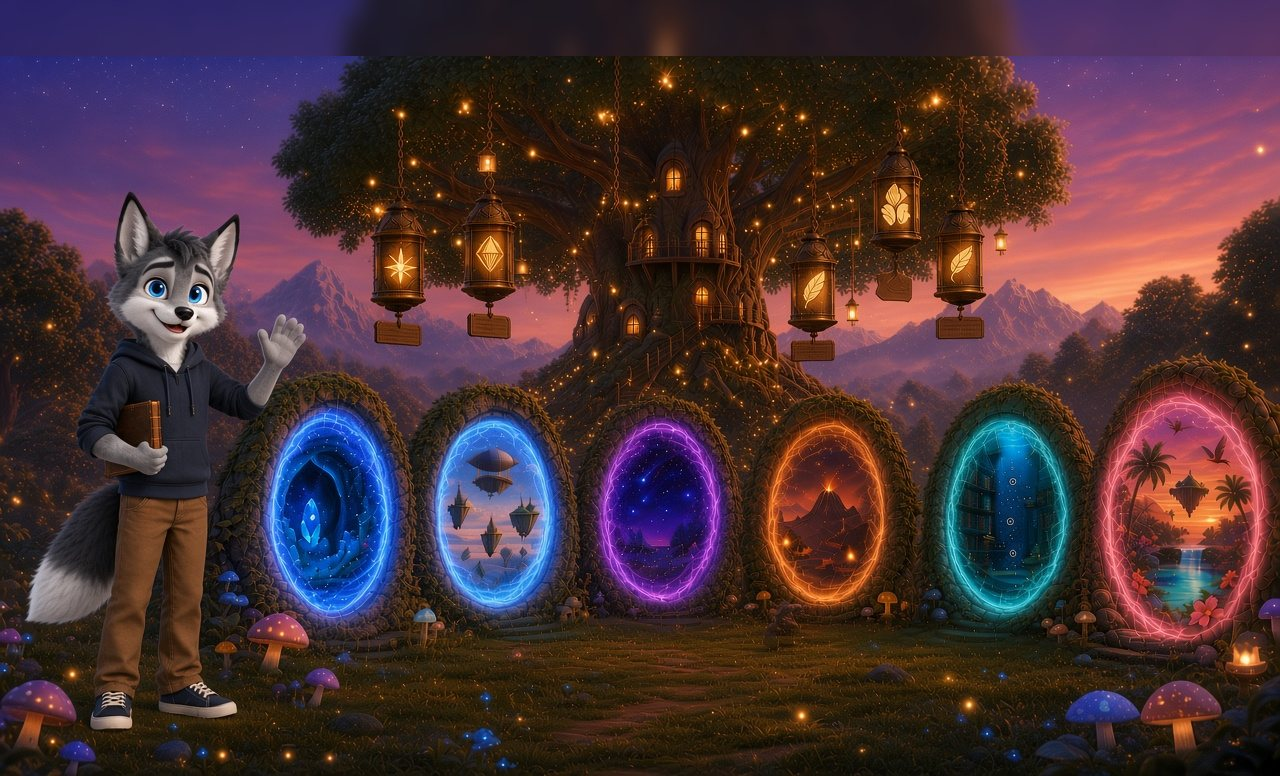
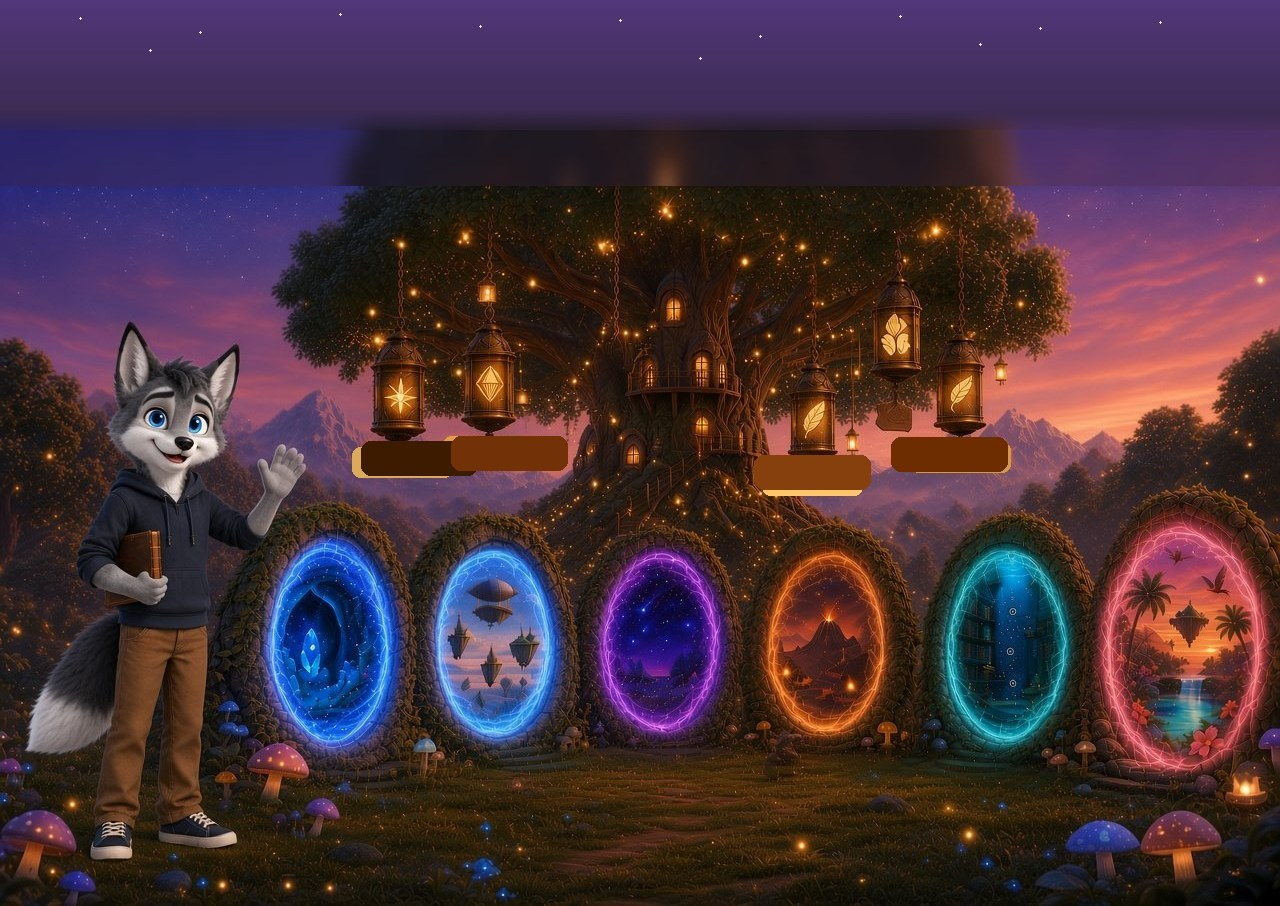
Plan A: clear sky band, one-line title, canopy crop, tip and lantern labels
Brighten and extend sky so canopy sits under open sky; keep the gold title
on one line in the upper-left; move Astra's tip beside his head; place
opaque frosted labels over the painted lantern signs; cover-fit biased to
show canopy with a little sky above.

diff --git a/student-dashboard/src/routes/plan-a.tsx b/student-dashboard/src/routes/plan-a.tsx
@@ -33,6 +33,9 @@ type Lantern = {
   y: number;
   w: number;
   h: number;
+  /** Center of painted wooden sign under the lantern (for frosted label cover). */
+  signX: number;
+  signY: number;
 };
 
 const CLASS_FOCUS = "Today, let's back every answer with evidence from the text!";
@@ -54,11 +57,11 @@ const modules: Module[] = [
     world: "Crystal Caverns",
     blurb: "Short constructed responses with clear evidence.",
     x: 25.9,
-    y: 60,
+    y: 65.74,
     w: 11,
-    h: 28,
+    h: 23.98,
     dotX: 25.9,
-    dotY: 80.5,
+    dotY: 83.3,
     accent: "#4aa3ff",
     lessons: [
       { title: "Answer the ask", world: "First crystals", minutes: 20, task: "Write a short answer that restates the question." },
@@ -74,11 +77,11 @@ const modules: Module[] = [
     world: "Sky Harbor",
     blurb: "Extended responses that build a full argument.",
     x: 38.8,
-    y: 60,
+    y: 65.74,
     w: 11,
-    h: 28,
+    h: 23.98,
     dotX: 38.8,
-    dotY: 80.5,
+    dotY: 83.3,
     accent: "#7cc8ff",
     lessons: [
       { title: "Claim the sky", world: "Docking ring", minutes: 20, task: "Write a clear claim for a longer response." },
@@ -94,11 +97,11 @@ const modules: Module[] = [
     world: "Starfall Meadow",
     blurb: "Sentences that hold one clear idea.",
     x: 51.5,
-    y: 60,
+    y: 65.74,
     w: 11,
-    h: 28,
+    h: 23.98,
     dotX: 51.5,
-    dotY: 80.5,
+    dotY: 83.3,
     accent: "#b46bff",
     lessons: [
       { title: "One complete thought", world: "First stones", minutes: 20, task: "Write three sentences that each say one whole idea." },
@@ -114,11 +117,11 @@ const modules: Module[] = [
     world: "Ember Forge",
     blurb: "Read the prompt, take notes, make a plan.",
     x: 64.5,
-    y: 60,
+    y: 65.74,
     w: 11,
-    h: 28,
+    h: 23.98,
     dotX: 64.5,
-    dotY: 80.5,
+    dotY: 83.3,
     accent: "#ff9a3c",
     lessons: [
       { title: "Read the prompt", world: "White trunks", minutes: 15, task: "Underline what the prompt is asking you to do." },
@@ -134,11 +137,11 @@ const modules: Module[] = [
     world: "Sunken Library",
     blurb: "Make the draft clearer and stronger.",
     x: 78.1,
-    y: 60,
+    y: 65.74,
     w: 11,
-    h: 28,
+    h: 23.98,
     dotX: 78.1,
-    dotY: 80.5,
+    dotY: 83.3,
     accent: "#2fd6c8",
     lessons: [
       { title: "Name the idea", world: "Lookout", minutes: 15, task: "Say what the draft is really about, in one line." },
@@ -154,11 +157,11 @@ const modules: Module[] = [
     world: "Coral Cove",
     blurb: "Polish conventions until the writing is clear.",
     x: 92.3,
-    y: 60,
+    y: 65.74,
     w: 11,
-    h: 28,
+    h: 23.98,
     dotX: 92.3,
-    dotY: 80.5,
+    dotY: 83.3,
     accent: "#ff6fa8",
     lessons: [
       { title: "Capitals and stops", world: "Fallen leaves", minutes: 15, task: "Fix sentences that start or end the wrong way." },
@@ -168,16 +171,16 @@ const modules: Module[] = [
   },
 ];
 
-const treehouseSpot = { x: 50, y: 42, w: 13, h: 26 };
-const astraSpot = { x: 9.5, y: 58, w: 13, h: 38 };
-const tipDotSpot = { x: 14, y: 44 };
+const treehouseSpot = { x: 50, y: 50.32, w: 13, h: 22.27 };
+const astraSpot = { x: 9.5, y: 64.03, w: 13, h: 32.55 };
+const tipDotSpot = { x: 22, y: 36.62 };
 
 /** Four interactive lanterns; any extra lantern in the art stays decorative. */
 const lanterns: Lantern[] = [
-  { id: "goal", label: "My goal", x: 34.5, y: 33.5, w: 5.5, h: 12 },
-  { id: "progress", label: "My progress", x: 41.5, y: 34, w: 5.5, h: 12 },
-  { id: "practice", label: "Practice", x: 63.5, y: 37, w: 5.5, h: 12 },
-  { id: "quick", label: "Quick write", x: 74.5, y: 33.5, w: 5.5, h: 12 },
+  { id: "goal", label: "My goal", x: 34.5, y: 43.04, w: 5.5, h: 10.28, signX: 32.8, signY: 50.6 },
+  { id: "progress", label: "My progress", x: 41.5, y: 43.47, w: 5.5, h: 10.28, signX: 39.8, signY: 50.0 },
+  { id: "practice", label: "Practice", x: 63.5, y: 46.04, w: 5.5, h: 10.28, signX: 63.5, signY: 52.2 },
+  { id: "quick", label: "Quick write", x: 74.5, y: 43.04, w: 5.5, h: 10.28, signX: 74.2, signY: 50.2 },
 ];
 
 const assignments = [
@@ -523,9 +526,20 @@ function StudentHome() {
                       }}
                     >
                       <span className="z-ring warm" aria-hidden="true" />
-                      <span className="z-lantern-tag">{lan.label}</span>
                     </button>
                   ))}
+
+                  {!focus
+                    ? lanterns.map((lan) => (
+                        <span
+                          key={`${lan.id}-sign`}
+                          className="z-lantern-tag"
+                          style={{ left: `${lan.signX}%`, top: `${lan.signY}%` }}
+                        >
+                          {lan.label}
+                        </span>
+                      ))
+                    : null}
 
                   <button
                     type="button"

diff --git a/student-dashboard/src/styles.css b/student-dashboard/src/styles.css
@@ -1202,7 +1202,7 @@
 
   /* ——— Plan A full-bleed cover scene (no leafy banner) ——— */
   .plana-stage {
-    background: #2a1840;
+    background: #3a2860;
   }
 
   .zscene {
@@ -1210,7 +1210,7 @@
     inset: 0;
     overflow: hidden;
     container-type: size;
-    background: #2a1840;
+    background: #3a2860;
   }
 
   /* Cover-fit, top-aligned: keep canopy/sky; crop sides/bottom as needed */
@@ -1219,8 +1219,8 @@
     left: 50%;
     top: 0;
     translate: -50% 0;
-    aspect-ratio: 1280 / 776;
-    width: max(100cqw, calc(100cqh * 1280 / 776));
+    aspect-ratio: 1280 / 906;
+    width: max(100cqw, calc(100cqh * 1280 / 906));
     height: auto;
   }
 
@@ -1235,20 +1235,21 @@
   .z-sky-title {
     position: absolute;
     z-index: 8;
-    left: 16px;
-    top: 10px;
-    max-width: min(480px, 40%);
+    left: 14px;
+    top: 8px;
+    max-width: none;
     margin: 0;
     font-family: "Baloo 2", "Nunito", var(--font-sans);
-    font-size: clamp(1.35rem, 2.55vw, 2.15rem);
+    font-size: 30px;
     font-weight: 800;
-    line-height: 1.15;
-    letter-spacing: 0.4px;
+    line-height: 1;
+    letter-spacing: 0.3px;
+    white-space: nowrap;
     color: #ffd77a;
     text-shadow:
-      0 0 18px rgb(255 190 90 / 0.75),
-      0 3px 0 #7a4a12,
-      0 6px 16px rgb(20 10 40 / 0.7);
+      0 0 14px rgb(255 190 90 / 0.65),
+      0 2px 0 #7a4a12,
+      0 3px 8px rgb(20 10 40 / 0.35);
     pointer-events: none;
   }
 
@@ -1303,7 +1304,7 @@
     gap: 0.4rem;
     border-radius: 999px;
     border: 1.5px solid rgb(255 255 255 / 0.75);
-    background: rgb(255 248 235 / 0.9);
+    background: #fff8eb;
     padding: 0.45rem 1rem;
     font-family: "Baloo 2", "Nunito", var(--font-sans);
     font-size: 0.9rem;
@@ -1415,22 +1416,23 @@
 
   .z-lantern-tag {
     position: absolute;
-    left: 50%;
-    top: 100%;
     z-index: 4;
-    translate: -50% 0.2rem;
-    border-radius: 0.7rem;
-    border: 1.5px solid rgb(255 255 255 / 0.75);
-    background: rgb(255 248 235 / 0.82);
-    padding: 0.28rem 0.55rem;
+    translate: -50% -50%;
+    border-radius: 0.75rem;
+    border: 1.5px solid rgb(255 255 255 / 0.8);
+    background: #fff8eb;
+    min-width: 7.6rem;
+    min-height: 2.25rem;
+    padding: 0.5rem 1.15rem;
     font-family: "Baloo 2", "Nunito", var(--font-sans);
-    font-size: 0.92rem;
+    font-size: 0.98rem;
+    text-align: center;
     font-weight: 800;
     line-height: 1.1;
     color: #4a2e1a;
     white-space: nowrap;
     pointer-events: none;
-    box-shadow: 0 6px 16px rgb(40 20 60 / 0.28);
+    box-shadow: 0 6px 16px rgb(40 20 60 / 0.32);
     backdrop-filter: blur(12px) saturate(1.15);
   }
 
@@ -1459,13 +1461,13 @@
   .z-tip {
     position: absolute;
     z-index: 6;
-    left: 2.2%;
-    top: 38%;
-    width: min(280px, 22%);
+    left: 23%;
+    top: 14%;
+    width: min(250px, 19%);
     border: 1.5px solid rgb(255 255 255 / 0.75);
     border-radius: 20px;
     background: rgb(255 248 235 / 0.82);
-    padding: 14px 18px;
+    padding: 12px 16px;
     color: #4a2e1a;
     text-align: left;
     box-shadow: 0 10px 30px rgb(40 20 60 / 0.35);
@@ -1473,13 +1475,14 @@
     cursor: pointer;
   }
 
+  /* Pointer aims left/down toward Astra's head */
   .z-tip::after {
     content: "";
     position: absolute;
-    left: 42%;
-    bottom: -11px;
-    width: 20px;
-    height: 20px;
+    left: 14px;
+    bottom: -10px;
+    width: 18px;
+    height: 18px;
     border-right: 1.5px solid rgb(255 255 255 / 0.75);
     border-bottom: 1.5px solid rgb(255 255 255 / 0.75);
     border-radius: 0 0 5px 0;
@@ -1598,3 +1601,22 @@
     font-weight: 700;
     line-height: 1.35;
   }
+
+
+/* Plan A: no dark smear under the view switcher */
+html.vs-on:has(.plana-stage) .vswitch {
+  box-shadow: none;
+  background: rgb(16 12 38 / 0.94);
+  backdrop-filter: none;
+  -webkit-backdrop-filter: none;
+}
+
+html.vs-on:has(.plana-stage) #root > .h-dvh > div {
+  transform-origin: unset;
+}
+html.vs-on:has(.plana-stage) .vswitch {
+  box-shadow: none !important;
+  backdrop-filter: none !important;
+  -webkit-backdrop-filter: none !important;
+  background: #120e28;
+}
